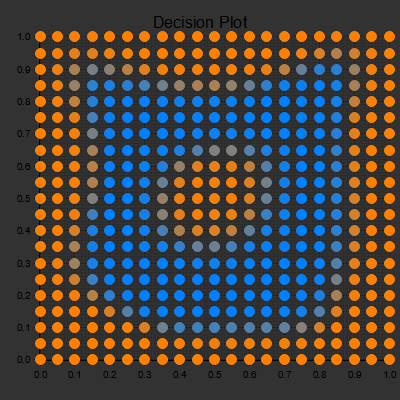
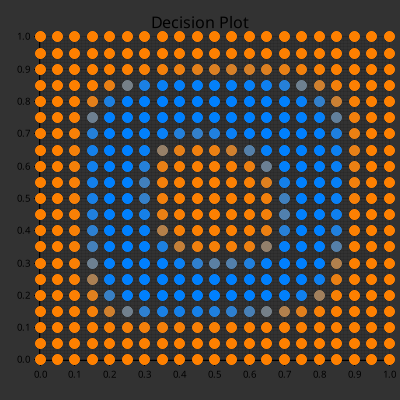
different sized layers implementation

diff --git a/src/main.rs b/src/main.rs
@@ -24,31 +24,36 @@ impl Activation {
 struct Architecture {
     layer_count: u32,
     input_params_count: u32,
-    hidden_neurons_count: u32,
+    hidden_neurons_count: Vec<u32>,
     hidden_layers_count: u32,
     output_neurons_count: u32,
+    learning_rate: f64,
     epochs: u64
 }
 
 impl Architecture {
-    fn init(
-    ) -> Self {
+    fn init() -> Self {
         let layer_count: u32;
         let input_params_count: u32;
-        let hidden_neurons_count: u32;
+        let mut hidden_neurons_count: Vec<u32> = Vec::new();
         let output_neurons_count: u32;
+        let learning_rate: f64;
         let epochs: u64;
         println!("Network arch wizard");
         println!("--------------------");
         input_params_count = query_user("Enter number of input parameters: (bundled data requires 2, asserted for now)") as u32;
         assert_eq!(input_params_count, 2);
         layer_count = query_user("Total layer count: (2 is sufficient)") as u32;
-        hidden_neurons_count = query_user("Neurons on hidden layers: (2 should be enough for XOR)") as u32;
+        let hidden_layers_count = layer_count - 1;
+        for i in 0..hidden_layers_count {
+            let question = format!("Neurons on layer {}: ", i+1);
+            hidden_neurons_count.push(query_user(&question) as u32);
+        }
         output_neurons_count = query_user("Output count: (bundled data requires 1, asserted for now)") as u32;
         assert_eq!(output_neurons_count, 1);
-        epochs = query_user("Train for how many epochs: (go ham, limit is u64)");
+        epochs = query_user("Train for how many epochs: (go ham, limit is u64)") as u64;
+        learning_rate = query_user("Learning rate: (value is in f64 so mind the format");
 
-        let hidden_layers_count = layer_count - 2;
 
         Architecture{
             layer_count,
@@ -56,16 +61,32 @@ impl Architecture {
             hidden_neurons_count,
             hidden_layers_count,
             output_neurons_count,
+            learning_rate,
             epochs
         }
     }
+
+    fn print(&self) {
+        println!("Network arch:");
+        println!("------------------");
+        println!("Layers:                       {}", self.layer_count);
+        println!("Hidden layers:                {}", self.hidden_layers_count);
+        println!("Input params:                 {}", self.input_params_count);
+        for i in 0..self.hidden_layers_count {
+            println!("Neurons on layer {}:      {}", i+1, self.hidden_neurons_count[i as usize]);
+        }
+        println!("Output neurons:               {}", self.output_neurons_count);
+        println!("Epoch cap:                    {}", self.epochs);
+        println!("Learning rate:                {}", self.learning_rate);
+        println!("------------------");
+    }
 }
 
-fn query_user(question: &str) -> u64 {
+fn query_user(question: &str) -> f64 {
     let mut buffer: String = String::new();
     println!("{}", question);
     io::stdin().read_line(&mut buffer).expect("Failed to read input");
-    let output = buffer.trim().parse::<u64>().expect("Failed to parse input");
+    let output = buffer.trim().parse::<f64>().expect("Failed to parse input");
     output
 }
 
@@ -145,8 +166,8 @@ impl Network {
         Network { layers: Vec::new(), learning_rate }
     }
 
-    fn print_stats(&self) {
-        println!("Network conf:");
+    fn print(&self) {
+        println!("Network actual conf:");
         println!("------------------");
         println!("Layers:");
         println!("------------------");
@@ -273,16 +294,16 @@ fn plot_decision(net: &Network, epoch: i32) -> Result<(), Box<dyn std::error::Er
 
 fn main() {
     let arch = Architecture::init();
-    let mut net = Network::new(0.5);
+    let mut net = Network::new(arch.learning_rate);
 
-    net.add_layer(Layer::new(arch.hidden_neurons_count as usize, arch.input_params_count as usize, Activation::Sigmoid)); // layer 1, input params -> hidden_neur
-    for layer in 0..arch.hidden_layers_count {
-        net.add_layer(Layer::new(arch.hidden_neurons_count as usize, arch.hidden_neurons_count as usize, Activation::Sigmoid));
+    net.add_layer(Layer::new(arch.hidden_neurons_count[0 as usize] as usize, arch.input_params_count as usize, Activation::Sigmoid)); // layer 1, input params -> hidden_neur
+    for layer in 0..arch.hidden_layers_count-1 {
+        net.add_layer(Layer::new(arch.hidden_neurons_count[(layer+1) as usize] as usize, arch.hidden_neurons_count[layer as usize] as usize, Activation::Sigmoid));
     }
-    net.add_layer(Layer::new(arch.output_neurons_count as usize, arch.hidden_neurons_count as usize, Activation::Sigmoid)); // layer n, hidden_neur -> output params
+    net.add_layer(Layer::new(arch.output_neurons_count as usize, *arch.hidden_neurons_count.last().expect("array malfunction") as usize, Activation::Sigmoid)); // layer n, hidden_neur -> output params
 
-
-    net.print_stats();
+    arch.print();
+    net.print();
 
 
     let matrix = vec![
@@ -331,14 +352,14 @@ fn main() {
             net.train(inputs, targets);
         }
         let loss = net.loss(&training_data);
-        let step = 1000;
+        let step = arch.epochs / 100000;
         if epoch % step == 0 {
             println!("epoch {} of {} | {} done in {} | loss {}", epoch, arch.epochs, epoch - prev_epoch, timer.elapsed().as_secs_f64(), loss);
             prev_epoch = epoch;
             timer = Instant::now();
         }
-        if loss <= 0.0001 {
-            println!("loss is sufficiently low ({}), stopping early", loss);
+        if loss <= 0.00001 {
+            println!("loss is sufficiently low ({})", loss);
             break
         }
     }
